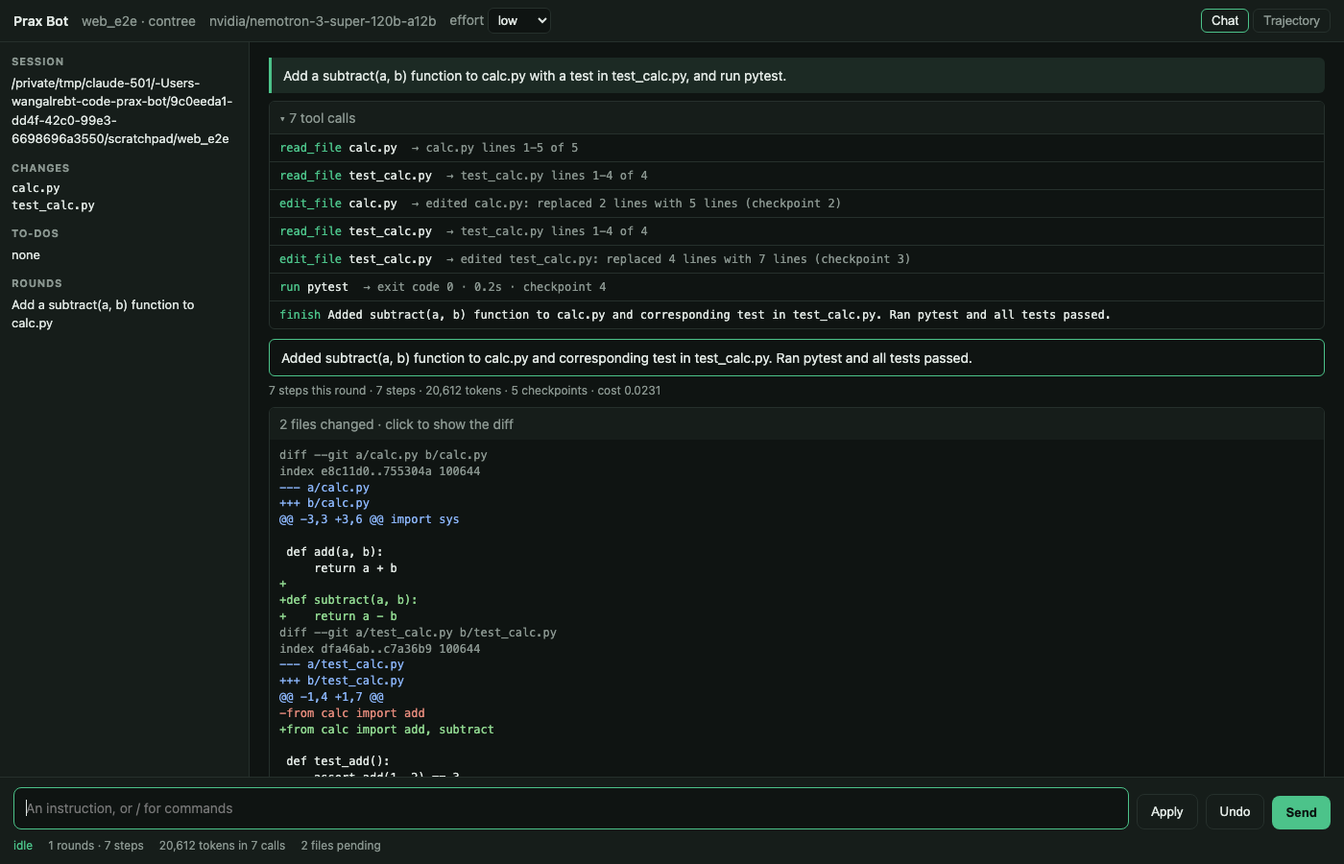
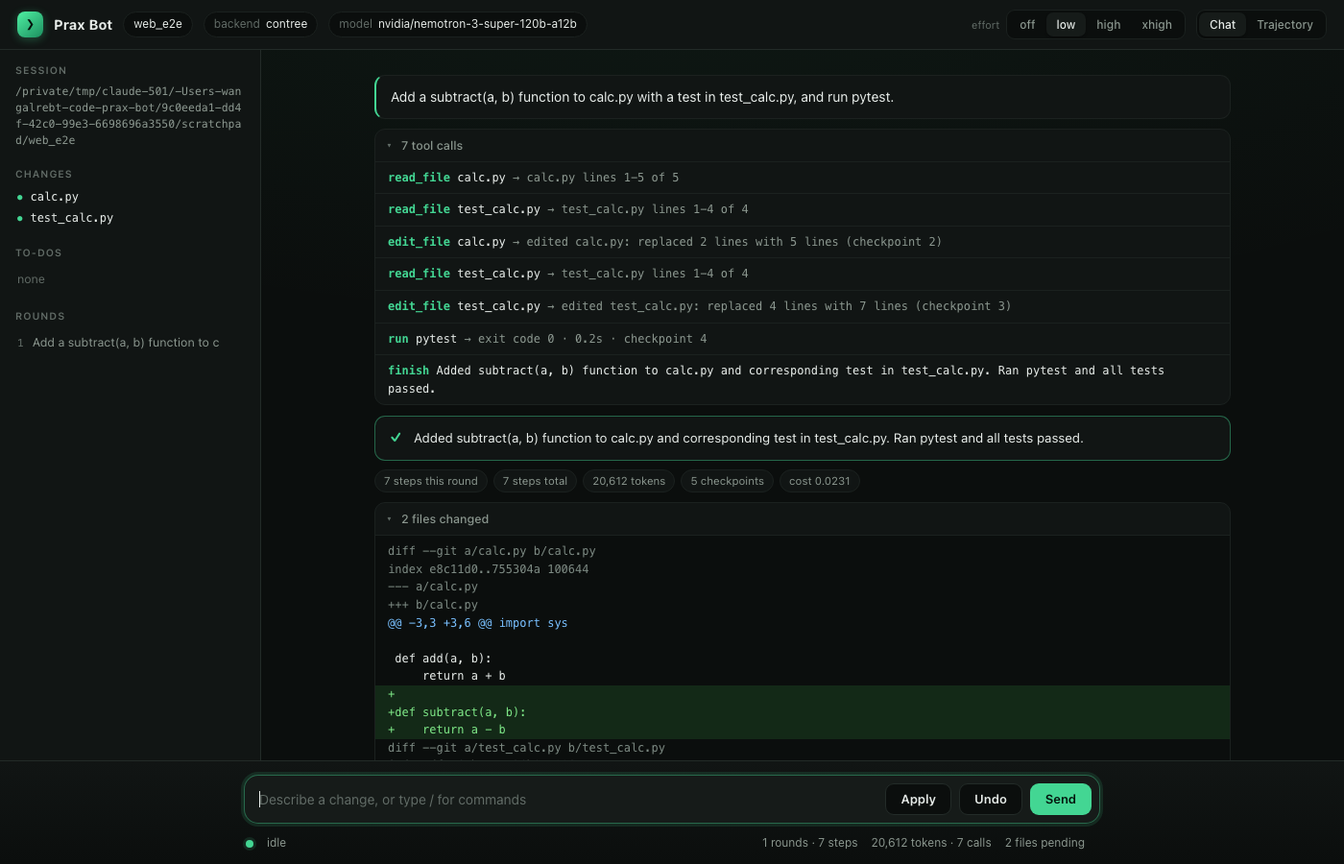
Redesign the web interface: refined dark theme, tool-call rows, colored diff, composer
A cohesive design pass on the single-file page: layered dark palette with one
green accent, a logo mark and chip header, a segmented effort control, grouped
tool-call rows, a summary card, stat pills, full-line diff tinting, a rounded
composer with a slash-command menu, and a live status dot. Still one inline
HTML page, no build step. Screenshots refreshed from a real sandbox run.

Claude-Session: https://claude.ai/code/session_014hpsb9d23BFddhWUrq8Tjb

diff --git a/src/prax_bot/web.py b/src/prax_bot/web.py
@@ -305,85 +305,160 @@ PAGE = r"""<!doctype html>
 <html lang="en"><head><meta charset="utf-8"><title>Prax Bot</title>
 <meta name="viewport" content="width=device-width, initial-scale=1">
 <style>
-:root{--bg:#0f1412;--panel:#161d1a;--line:#26302c;--text:#dfe6e2;--muted:#8a9690;--accent:#4cc38a;--warn:#e0b04a;--bad:#e06c5a;--user:#1c2a24}
-*{box-sizing:border-box}body{margin:0;background:var(--bg);color:var(--text);font:14px/1.5 -apple-system,BlinkMacSystemFont,"Segoe UI",sans-serif;height:100vh;display:flex;flex-direction:column}
-header{display:flex;align-items:center;gap:14px;padding:8px 14px;border-bottom:1px solid var(--line);background:var(--panel)}
-header .name{font-weight:600}header .dim{color:var(--muted)}header .tabs{margin-left:auto;display:flex;gap:4px}
-header .tabs button{background:none;border:1px solid var(--line);color:var(--muted);padding:4px 10px;border-radius:6px;cursor:pointer}
-header .tabs button.on{color:var(--text);border-color:var(--accent)}
-main{flex:1;display:flex;min-height:0}
-aside{width:260px;border-right:1px solid var(--line);padding:12px;overflow:auto;background:var(--panel);font-size:13px}
-aside h3{margin:12px 0 4px;font-size:11px;text-transform:uppercase;letter-spacing:.06em;color:var(--muted)}aside h3:first-child{margin-top:0}
-aside .file{font-family:ui-monospace,Menlo,monospace;font-size:12px}aside .round{cursor:pointer;color:var(--text)}aside .round:hover{color:var(--accent)}
-aside .todo{display:flex;gap:6px}aside .todo.done{color:var(--muted);text-decoration:line-through}
-#chat,#traj{flex:1;overflow:auto;padding:16px 20px;display:none}#chat.on,#traj.on{display:block}
-.turn{margin-bottom:18px}.user{background:var(--user);border-left:3px solid var(--accent);padding:8px 12px;border-radius:0 6px 6px 0;white-space:pre-wrap}
-.group{margin:8px 0 0 0;border:1px solid var(--line);border-radius:6px;overflow:hidden}
-.group>button{width:100%;text-align:left;background:var(--panel);border:none;color:var(--muted);padding:6px 10px;cursor:pointer;font:inherit}
-.group>button:before{content:"▸ ";}.group.open>button:before{content:"▾ ";}
-.group .rows{display:none}.group.open .rows{display:block}
-.row{padding:5px 10px;border-top:1px solid var(--line);font-family:ui-monospace,Menlo,monospace;font-size:12px;cursor:pointer}
-.row .name{color:var(--accent)}.row .args{color:var(--text)}.row .res{color:var(--muted);margin-left:8px}.row.err .res{color:var(--bad)}
-.row pre{display:none;white-space:pre-wrap;margin:6px 0 0;color:var(--text);max-height:360px;overflow:auto}.row.open pre{display:block}
-.summary{margin-top:10px;padding:8px 12px;border:1px solid var(--accent);border-radius:6px;white-space:pre-wrap}
-.summary.stopped{border-color:var(--warn)}
-.stats{color:var(--muted);font-size:12px;margin-top:6px}
-.diff{margin-top:8px;border:1px solid var(--line);border-radius:6px;overflow:hidden}.diff>button{width:100%;text-align:left;background:var(--panel);border:none;color:var(--muted);padding:6px 10px;cursor:pointer;font:inherit}
-.diff pre{display:none;margin:0;padding:8px 10px;font:12px/1.4 ui-monospace,Menlo,monospace;overflow:auto;max-height:480px}.diff.open pre{display:block}
-.diff .a{color:#8fd68f}.diff .d{color:#e58b7c}.diff .h{color:#8ab4f8}.diff .m{color:var(--muted)}
-.think{color:var(--muted);font-style:italic;margin:6px 0;white-space:pre-wrap}
-.log{font:12px/1.5 ui-monospace,Menlo,monospace;white-space:pre-wrap;color:var(--muted)}.log.bad{color:var(--bad)}
-footer{border-top:1px solid var(--line);background:var(--panel);padding:10px 14px}
-.composer{display:flex;gap:8px;align-items:flex-end;position:relative}
-textarea{flex:1;background:var(--bg);color:var(--text);border:1px solid var(--line);border-radius:8px;padding:10px 12px;font:inherit;resize:none;min-height:44px;max-height:180px}
-textarea:focus{outline:none;border-color:var(--accent)}
-.composer button{background:var(--accent);color:#0b1410;border:none;border-radius:8px;padding:10px 14px;font-weight:600;cursor:pointer}
-.composer button.ghost{background:none;border:1px solid var(--line);color:var(--text);font-weight:500}
-.composer button:disabled{opacity:.4;cursor:default}
-#menu{position:absolute;bottom:52px;left:0;background:var(--panel);border:1px solid var(--line);border-radius:8px;min-width:360px;display:none;z-index:2}
-#menu.on{display:block}#menu div{padding:6px 10px;cursor:pointer}#menu div.sel,#menu div:hover{background:var(--user)}#menu b{font-family:ui-monospace,Menlo,monospace;color:var(--accent)}#menu span{color:var(--muted);margin-left:8px}
-.status{display:flex;gap:16px;color:var(--muted);font-size:12px;margin-top:8px}.status .working{color:var(--warn)}.status .idle{color:var(--accent)}
-select{background:var(--bg);color:var(--text);border:1px solid var(--line);border-radius:6px;padding:4px 6px}
+:root{
+--bg:#0b0e0d;--surface:#111514;--elev:#161b19;--border:#232b28;--border-soft:#1b211f;--hover:#1a201e;
+--text:#e7ece9;--muted:#8b978f;--faint:#616b66;
+--accent:#43d693;--accent-soft:rgba(67,214,147,.13);--accent-line:rgba(67,214,147,.42);
+--add:#7ee787;--add-bg:rgba(63,185,80,.16);--del:#ff9a94;--del-bg:rgba(248,81,73,.15);--hunk:#79c0ff;--meta:#7d8a83;
+--warn:#e3b341;--bad:#ff7b72;
+--radius:11px;--mono:ui-monospace,"SF Mono",Menlo,Consolas,monospace;--sans:-apple-system,BlinkMacSystemFont,"Segoe UI",Inter,sans-serif;
+}
+*{box-sizing:border-box}
+html,body{height:100%}
+body{margin:0;background:var(--bg);color:var(--text);font:14px/1.55 var(--sans);display:flex;flex-direction:column;-webkit-font-smoothing:antialiased}
+*::-webkit-scrollbar{width:10px;height:10px}
+*::-webkit-scrollbar-thumb{background:var(--border);border-radius:6px;border:2px solid transparent;background-clip:padding-box}
+*::-webkit-scrollbar-thumb:hover{background:#2c3531;background-clip:padding-box}
+.dim{color:var(--faint);font-size:12.5px;padding:4px 6px}
+
+header{display:flex;align-items:center;gap:11px;padding:10px 18px;border-bottom:1px solid var(--border);background:var(--surface);flex:none}
+.logo{width:27px;height:27px;border-radius:8px;background:linear-gradient(140deg,#4ff0a3,#1c8f5f);display:grid;place-items:center;color:#03130b;font:800 15px/1 var(--mono);box-shadow:0 2px 10px rgba(67,214,147,.32)}
+header .name{font:700 14.5px var(--sans);letter-spacing:.01em}
+.chip{display:inline-flex;align-items:center;gap:6px;padding:3px 10px;border-radius:20px;background:var(--bg);border:1px solid var(--border-soft);color:var(--text);font-size:12px;max-width:340px;overflow:hidden;white-space:nowrap;text-overflow:ellipsis}
+.chip .k{color:var(--faint)}
+header .spacer{flex:1}
+header label{color:var(--faint);font-size:11px;display:flex;align-items:center;gap:7px}
+.seg{display:inline-flex;background:var(--bg);border:1px solid var(--border-soft);border-radius:9px;padding:2px}
+.seg button{border:none;background:none;color:var(--muted);padding:5px 11px;border-radius:7px;font:500 12px var(--sans);cursor:pointer;transition:.14s}
+.seg button:hover{color:var(--text)}
+.seg button.on{background:var(--elev);color:var(--text);box-shadow:0 1px 2px rgba(0,0,0,.35)}
+
+main{flex:1;display:flex;min-height:0;background:radial-gradient(1100px 380px at 50% -12%,rgba(67,214,147,.05),transparent)}
+aside{width:272px;flex:none;border-right:1px solid var(--border);padding:14px 12px;overflow:auto;background:var(--surface)}
+.slabel{font:600 10.5px/1 var(--sans);letter-spacing:.09em;text-transform:uppercase;color:var(--faint);margin:20px 4px 8px}
+.slabel:first-child{margin-top:2px}
+.path{font:11.5px/1.5 var(--mono);color:var(--muted);padding:0 4px;word-break:break-all}
+.frow{display:flex;align-items:center;gap:8px;padding:4px 6px;border-radius:7px;font:12px var(--mono);color:var(--text)}
+.frow:hover{background:var(--hover)}.frow .g{color:var(--accent);font-size:9px}
+.rround{display:flex;gap:9px;align-items:baseline;padding:5px 6px;border-radius:7px;color:var(--muted);cursor:pointer;font-size:12.5px;transition:.12s}
+.rround:hover{background:var(--hover);color:var(--text)}.rround .n{color:var(--faint);font:11px var(--mono)}
+.todo{display:flex;gap:8px;padding:3px 6px;font-size:12.5px;color:var(--text)}
+.todo.completed{color:var(--faint);text-decoration:line-through}.todo .tb{color:var(--accent)}.todo.pending .tb{color:var(--faint)}
+
+.content{flex:1;overflow:auto}
+#chat,#traj{max-width:940px;margin:0 auto;padding:26px 24px 40px}
+#traj{display:none}#traj.on{display:block}#chat{display:none}#chat.on{display:block}
+#empty{text-align:center;padding:76px 20px;color:var(--faint)}
+#empty h2{color:var(--text);font:600 17px var(--sans);margin:0 0 8px}
+#empty p{margin:0;color:var(--muted)}
+#empty .hint{display:inline-flex;flex-direction:column;gap:6px;margin-top:22px;text-align:left;font:12.5px var(--mono);color:var(--faint);background:var(--surface);border:1px solid var(--border-soft);border-radius:10px;padding:14px 16px}
+.turn{margin-bottom:24px;animation:in .2s ease}
+.user{position:relative;background:var(--surface);border:1px solid var(--border-soft);border-left:2px solid var(--accent);border-radius:var(--radius);padding:11px 15px;white-space:pre-wrap;font-size:14px}
+.group,.diff{margin-top:10px;border:1px solid var(--border-soft);border-radius:var(--radius);overflow:hidden;background:var(--surface)}
+.ghead,.diffhead{width:100%;text-align:left;background:none;border:none;color:var(--muted);padding:9px 13px;cursor:pointer;font:500 12.5px var(--sans);display:flex;align-items:center;gap:8px}
+.ghead:hover,.diffhead:hover{color:var(--text)}
+.chev{display:inline-block;transition:transform .16s;color:var(--faint)}
+.group.open .chev,.diff.open .chev{transform:rotate(90deg)}
+.rows{display:none;border-top:1px solid var(--border-soft)}.group.open .rows{display:block}
+.row{padding:7px 13px;border-top:1px solid var(--border-soft);font:12px/1.55 var(--mono);cursor:pointer;transition:background .12s;animation:in .16s ease}
+.row:first-child{border-top:none}.row:hover{background:var(--hover)}
+.row .name{color:var(--accent);font-weight:600}.row .args{color:var(--text)}.row .res{color:var(--muted)}
+.row.err{box-shadow:inset 2px 0 0 var(--bad)}.row.err .res{color:var(--bad)}
+.row pre{display:none;white-space:pre-wrap;margin:8px 0 2px;padding:10px;background:var(--bg);border:1px solid var(--border-soft);border-radius:8px;color:var(--text);max-height:340px;overflow:auto;font-size:11.5px}
+.row.open pre{display:block}
+.think{color:var(--muted);font-style:italic;margin:9px 2px;white-space:pre-wrap;font-size:12.5px;border-left:2px solid var(--border);padding-left:11px}
+.summary{margin-top:11px;padding:12px 15px 12px 40px;position:relative;background:var(--surface);border:1px solid var(--accent-line);border-radius:var(--radius);white-space:pre-wrap;font-size:13.5px}
+.summary:before{content:"✓";position:absolute;left:15px;top:11px;color:var(--accent);font-weight:800}
+.summary.stopped{border-color:rgba(227,179,65,.42)}.summary.stopped:before{content:"!";color:var(--warn)}
+.stats{display:flex;flex-wrap:wrap;gap:6px;margin-top:9px}
+.stats span{font-size:11.5px;color:var(--muted);background:var(--surface);border:1px solid var(--border-soft);padding:2px 9px;border-radius:20px}
+.difflines{display:none;overflow-x:auto;border-top:1px solid var(--border-soft);padding:7px 0;background:var(--bg)}
+.diff.open .difflines{display:block}
+.dl{font:12px/1.55 var(--mono);white-space:pre;padding:0 13px;color:var(--text)}
+.dl.add{color:var(--add);background:var(--add-bg)}.dl.del{color:var(--del);background:var(--del-bg)}.dl.hunk{color:var(--hunk)}.dl.meta{color:var(--meta)}
+.log{font:12px/1.65 var(--mono);white-space:pre-wrap;color:var(--muted);padding:1px 0}.log.bad{color:var(--bad)}
+
+footer{border-top:1px solid var(--border);background:linear-gradient(180deg,var(--surface),var(--bg));padding:14px 0 12px;flex:none}
+.wrap{max-width:940px;margin:0 auto;padding:0 24px}
+.composer{display:flex;gap:8px;align-items:flex-end;position:relative;background:var(--elev);border:1px solid var(--border);border-radius:15px;padding:8px 8px 8px 15px;transition:.15s}
+.composer:focus-within{border-color:var(--accent-line);box-shadow:0 0 0 3px var(--accent-soft)}
+textarea{flex:1;background:none;border:none;color:var(--text);font:14px/1.5 var(--sans);resize:none;min-height:26px;max-height:180px;padding:6px 0}
+textarea:focus{outline:none}textarea::placeholder{color:var(--faint)}
+.btn{border-radius:9px;padding:9px 15px;font:600 13px/1 var(--sans);cursor:pointer;border:1px solid var(--border);background:var(--bg);color:var(--text);transition:.14s;flex:none}
+.btn:hover{background:var(--hover);border-color:var(--accent-line)}
+.btn.primary{background:var(--accent);color:#03130b;border-color:transparent}.btn.primary:hover{filter:brightness(1.07)}
+.btn:disabled{opacity:.38;cursor:default}.btn:active{transform:translateY(1px)}
+#menu{position:absolute;bottom:calc(100% + 8px);left:0;right:0;background:var(--elev);border:1px solid var(--border);border-radius:12px;box-shadow:0 14px 44px rgba(0,0,0,.55);overflow:hidden;display:none;z-index:5}
+#menu.on{display:block}
+#menu div{padding:9px 15px;cursor:pointer;display:flex;gap:14px;align-items:baseline}
+#menu div.sel{background:var(--accent-soft)}
+#menu b{font:600 13px var(--mono);color:var(--accent);min-width:78px}#menu span{color:var(--muted);font-size:12.5px}
+.statusbar{max-width:940px;margin:11px auto 0;padding:0 26px;display:flex;align-items:center;gap:14px;color:var(--muted);font-size:12px}
+.statusbar .grow{flex:1}
+.dot{width:8px;height:8px;border-radius:50%;background:var(--accent);box-shadow:0 0 0 3px var(--accent-soft);flex:none}
+.dot.working{background:var(--warn);box-shadow:0 0 0 3px rgba(227,179,65,.22);animation:pulse 1.1s ease-in-out infinite}
+.dot.failed{background:var(--bad);box-shadow:0 0 0 3px rgba(255,123,114,.2)}
+@keyframes pulse{0%,100%{opacity:1}50%{opacity:.32}}
+@keyframes in{from{opacity:0;transform:translateY(-3px)}to{opacity:1;transform:none}}
+@media(max-width:780px){aside{display:none}}
 </style></head><body>
-<header><span class="name">Prax Bot</span><span id="hrepo" class="dim"></span><span id="hmodel" class="dim"></span>
-<label class="dim">effort <select id="effort"><option>off</option><option>low</option><option>high</option><option>xhigh</option></select></label>
-<div class="tabs"><button id="tabchat" class="on">Chat</button><button id="tabtraj">Trajectory</button></div></header>
+<header>
+<div class="logo">&#10095;</div><span class="name">Prax Bot</span>
+<span class="chip"><span id="hrepo"></span></span>
+<span class="chip"><span class="k">backend</span><span id="hbackend"></span></span>
+<span class="chip"><span class="k">model</span><span id="hmodel"></span></span>
+<span class="spacer"></span>
+<label>effort <span id="effort" class="seg"><button data-v="off">off</button><button data-v="low">low</button><button data-v="high">high</button><button data-v="xhigh">xhigh</button></span></label>
+<span class="seg"><button id="tabchat" class="on">Chat</button><button id="tabtraj">Trajectory</button></span>
+</header>
 <main>
-<aside><h3>Session</h3><div id="sinfo"></div><h3>Changes</h3><div id="sfiles" class="dim">none pending</div><h3>To-dos</h3><div id="stodos" class="dim">none</div><h3>Rounds</h3><div id="srounds" class="dim">none yet</div></aside>
-<section id="chat" class="on"></section><section id="traj"></section>
+<aside>
+<div class="slabel">Session</div><div id="sinfo" class="path"></div>
+<div class="slabel">Changes</div><div id="sfiles"><div class="dim">none pending</div></div>
+<div class="slabel">To-dos</div><div id="stodos"><div class="dim">none</div></div>
+<div class="slabel">Rounds</div><div id="srounds"><div class="dim">none yet</div></div>
+</aside>
+<div class="content">
+<section id="chat" class="on">
+<div id="empty"><h2>Ready when you are</h2><p>Describe a change and press Enter. Prax Bot works in a sandbox and shows you the diff.</p>
+<div class="hint"><span>fix the failing test in tests/test_cache.py</span><span>/goal all tests pass&nbsp;&nbsp;--check "pytest -q"</span><span>/apply&nbsp;&nbsp;/undo&nbsp;&nbsp;/diff&nbsp;&nbsp;/effort&nbsp;&nbsp;/help</span></div></div>
+</section>
+<section id="traj"></section>
+</div>
 </main>
 <footer>
-<div class="composer">
+<div class="wrap"><div class="composer">
 <div id="menu"></div>
-<textarea id="input" rows="1" placeholder="An instruction, or / for commands"></textarea>
-<button id="apply" class="ghost" title="/apply">Apply</button><button id="undo" class="ghost" title="/undo">Undo</button><button id="send">Send</button>
-</div>
-<div class="status"><span id="sstatus" class="idle">starting</span><span id="sround"></span><span id="stoks"></span><span id="spend"></span><span id="squeue"></span></div>
+<textarea id="input" rows="1" placeholder="Describe a change, or type / for commands"></textarea>
+<button id="apply" class="btn" title="/apply">Apply</button><button id="undo" class="btn" title="/undo">Undo</button><button id="send" class="btn primary">Send</button>
+</div></div>
+<div class="statusbar"><span id="dot" class="dot"></span><span id="sstatus">starting</span><span class="grow"></span><span id="sround"></span><span id="stoks"></span><span id="spend"></span><span id="squeue"></span></div>
 </footer>
 <script>
 const TOKEN="__TOKEN__";const $=s=>document.querySelector(s);
-const COMMANDS=[["/apply","apply the pending changes to your working tree"],["/undo","put the sandbox back to before the last instruction"],["/diff","show the pending changes"],["/goal","work in rounds: /goal [--check CMD] [--rounds N] OBJECTIVE"],["/resume","swap in a past run's checkpoint: /resume RUN-ID [--from N]"],["/effort","off, low, high or xhigh for the next instructions"],["/status","steps, tokens, checkpoints, pending changes"],["/help","list the commands"],["/quit","end the session"]];
-let state={},turn=null,group=null,rows={},lastState={};
-const chat=$("#chat"),traj=$("#traj"),input=$("#input");
-function el(tag,cls,text){const e=document.createElement(tag);if(cls)e.className=cls;if(text!==undefined)e.textContent=text;return e}
-function describe(name,args){try{const a=JSON.parse(args||"{}");if(a.command)return a.command;if(a.path){let s=a.path;if(a.start_line)s+=":"+a.start_line+(a.end_line?"-"+a.end_line:"");return s}if(a.pattern)return a.pattern+(a.path?" in "+a.path:"");if(a.name)return a.name;if(a.summary)return a.summary;if(a.step!==undefined)return "step "+a.step;return JSON.stringify(a).slice(0,120)}catch(e){return String(args).slice(0,120)}}
-function newTurn(text){turn=el("div","turn");const u=el("div","user",text);turn.appendChild(u);group=null;chat.appendChild(turn);turn.id="turn"+(document.querySelectorAll(".turn").length);turn.scrollIntoView({block:"end"})}
-function ensureGroup(){if(!turn)newTurn("(continued)");if(!group){group=el("div","group open");const b=el("button","","0 tool calls");b.onclick=()=>group.classList.toggle("open");group.appendChild(b);group.appendChild(el("div","rows"));turn.appendChild(group)}return group}
-function addCall(e){const g=ensureGroup();const r=el("div","row");r.innerHTML='<span class="name"></span> <span class="args"></span><span class="res"></span><pre></pre>';r.querySelector(".name").textContent=e.name;r.querySelector(".args").textContent=describe(e.name,e.args);r.onclick=()=>r.classList.toggle("open");g.querySelector(".rows").appendChild(r);rows[e.step+":"+e.name]=r;const n=g.querySelectorAll(".row").length;g.querySelector("button").textContent=n+" tool call"+(n>1?"s":"");chat.scrollTop=chat.scrollHeight}
-function addResult(e){const r=rows[e.step+":"+e.name];if(!r)return;const out=String(e.output||"");const first=out.split("\n")[0].slice(0,140);r.querySelector(".res").textContent=" → "+first;if(out.startsWith("error:"))r.classList.add("err");r.querySelector("pre").textContent=out}
-function addSummary(e,finished){if(!turn)newTurn("(continued)");const s=el("div","summary"+(finished?"":" stopped"),e.summary||"(no summary)");turn.appendChild(s);if(group)group.classList.remove("open");chat.scrollTop=chat.scrollHeight}
-function addDiff(diff){if(!turn||!diff)return;const d=el("div","diff");const b=el("button","",diff.split("\n").filter(l=>l.startsWith("diff --git")).length+" files changed · click to show the diff");b.onclick=()=>d.classList.toggle("open");const pre=el("pre");pre.innerHTML=diff.split("\n").map(l=>{const c=l.startsWith("+++")||l.startsWith("---")?"h":l.startsWith("+")?"a":l.startsWith("-")?"d":l.startsWith("@@")?"h":l.startsWith("diff ")||l.startsWith("index ")?"m":"";const t=l.replace(/&/g,"&amp;").replace(/</g,"&lt;");return c?'<span class="'+c+'">'+t+'</span>':t}).join("\n");d.appendChild(b);d.appendChild(pre);turn.appendChild(d)}
-function addStats(s,roundSteps){if(!turn)return;turn.appendChild(el("div","stats",`${roundSteps} steps this round · ${s.steps} steps · ${s.tokens.toLocaleString()} tokens · ${s.checkpoints} checkpoints · cost ${s.cost.toFixed(4)}`))}
-function renderState(s){lastState=state;state=s;$("#hrepo").textContent=s.name+" · "+s.backend;$("#hmodel").textContent=s.model;$("#effort").value=s.effort;
-$("#sinfo").textContent=s.repo;$("#sfiles").innerHTML="";if(s.files.length){s.files.forEach(f=>$("#sfiles").appendChild(el("div","file",f)))}else{$("#sfiles").textContent="none pending";$("#sfiles").className="dim"}
-const st=$("#sstatus");st.textContent=s.status+(s.step?" · "+s.step:"");st.className=s.status==="working"?"working":"idle";
-$("#sround").textContent=s.rounds+" rounds · "+s.steps+" steps";$("#stoks").textContent=s.tokens.toLocaleString()+" tokens in "+s.calls+" calls";$("#spend").textContent=s.files.length?s.files.length+" files pending":"nothing pending";$("#squeue").textContent=s.queued?s.queued+" queued":"";
+const COMMANDS=[["/apply","apply the pending changes to your working tree"],["/undo","undo the last instruction"],["/diff","show the pending changes"],["/goal","work in rounds: /goal [--check CMD] [--rounds N] OBJECTIVE"],["/resume","swap in a past run's checkpoint: /resume RUN-ID [--from N]"],["/effort","off, low, high or xhigh for the next instructions"],["/status","steps, tokens, checkpoints, pending changes"],["/help","list the commands"],["/quit","end the session"]];
+let state={},turn=null,group=null,callRows={},roundStepsStart=0;
+const chat=$("#chat"),traj=$("#traj"),input=$("#input"),menu=$("#menu");
+function el(t,c,x){const e=document.createElement(t);if(c)e.className=c;if(x!==undefined)e.textContent=x;return e}
+function describe(name,a){try{const o=JSON.parse(a||"{}");if(o.command)return o.command;if(o.path){let s=o.path;if(o.start_line)s+=":"+o.start_line+(o.end_line?"-"+o.end_line:"");return s}if(o.pattern)return o.pattern+(o.path?" in "+o.path:"");if(o.name)return o.name;if(o.summary)return o.summary;if(o.step!==undefined)return "→ step "+o.step;return JSON.stringify(o).slice(0,120)}catch(e){return String(a).slice(0,120)}}
+function newTurn(text){$("#empty").style.display="none";turn=el("div","turn");turn.dataset.label=text.slice(0,34);turn.appendChild(el("div","user",text));group=null;chat.appendChild(turn);turn.scrollIntoView({block:"end",behavior:"smooth"})}
+function ensureGroup(){if(!turn)newTurn("(continued)");if(!group){group=el("div","group open");const b=el("button","ghead");b.innerHTML='<span class="chev">▸</span><span class="gcount">0 tool calls</span>';b.onclick=()=>group.classList.toggle("open");const box=el("div","rows");group.appendChild(b);group.appendChild(box);turn.appendChild(group)}return group}
+function addCall(e){const g=ensureGroup();const r=el("div","row");r.innerHTML='<span class="name"></span> <span class="args"></span> <span class="res"></span><pre></pre>';r.querySelector(".name").textContent=e.name;r.querySelector(".args").textContent=describe(e.name,e.args);r.onclick=()=>r.classList.toggle("open");g.querySelector(".rows").appendChild(r);callRows[e.step+":"+e.name]=r;const n=g.querySelectorAll(".row").length;g.querySelector(".gcount").textContent=n+" tool call"+(n>1?"s":"");chat.scrollTop=chat.scrollHeight}
+function addResult(e){const r=callRows[e.step+":"+e.name];if(!r)return;const out=String(e.output||"");r.querySelector(".res").textContent="→ "+out.split("\n")[0].slice(0,120);if(out.startsWith("error:"))r.classList.add("err");r.querySelector("pre").textContent=out}
+function addSummary(e,finished){if(!turn)newTurn("(continued)");turn.appendChild(el("div","summary"+(finished?"":" stopped"),e.summary||"(no summary)"));if(group)group.classList.remove("open");chat.scrollTop=chat.scrollHeight}
+function addStats(s,rs){if(!turn)return;const w=el("div","stats");[rs+" steps this round",s.steps+" steps total",s.tokens.toLocaleString()+" tokens",s.checkpoints+" checkpoints","cost "+s.cost.toFixed(4)].forEach(x=>w.appendChild(el("span","",x)));turn.appendChild(w)}
+function addDiff(diff){if(!turn||!diff)return;const files=diff.split("\n").filter(l=>l.startsWith("diff --git")).length;const d=el("div","diff");const b=el("button","diffhead");b.innerHTML='<span class="chev">▸</span> '+files+' file'+(files>1?"s":"")+' changed';b.onclick=()=>d.classList.toggle("open");const box=el("div","difflines");diff.split("\n").forEach(l=>{let c="ctx";if(l.startsWith("+++")||l.startsWith("---")||l.startsWith("diff ")||l.startsWith("index "))c="meta";else if(l.startsWith("@@"))c="hunk";else if(l.startsWith("+"))c="add";else if(l.startsWith("-"))c="del";box.appendChild(el("div","dl "+c,l||" "))});d.appendChild(b);d.appendChild(box);turn.appendChild(d)}
+function renderState(s){state=s;$("#hrepo").textContent=s.name;$("#hbackend").textContent=s.backend;$("#hmodel").textContent=s.model;
+document.querySelectorAll("#effort button").forEach(b=>b.classList.toggle("on",b.dataset.v===s.effort));
+$("#sinfo").textContent=s.repo;
+const sf=$("#sfiles");sf.innerHTML="";if(s.files.length){s.files.forEach(f=>{const r=el("div","frow");r.innerHTML='<span class="g">●</span>';r.appendChild(document.createTextNode(f));sf.appendChild(r)})}else sf.innerHTML='<div class="dim">none pending</div>';
+const st=$("#sstatus"),dot=$("#dot");st.textContent=s.status==="working"?("working"+(s.step?" · "+s.step:"")):s.status;dot.className="dot"+(s.status==="working"?" working":s.status==="failed"?" failed":"");
+$("#sround").textContent=s.rounds+" rounds · "+s.steps+" steps";$("#stoks").textContent=s.tokens.toLocaleString()+" tokens · "+s.calls+" calls";$("#spend").textContent=s.files.length?s.files.length+" files pending":"nothing pending";$("#squeue").textContent=s.queued?s.queued+" queued":"";
 $("#send").disabled=s.closed||s.status==="failed";$("#apply").disabled=s.closed||!s.files.length;$("#undo").disabled=s.closed||!s.rounds;
 if(s.closed){st.textContent="session ended";input.disabled=true}}
-function renderRounds(){const r=$("#srounds");r.innerHTML="";const turns=document.querySelectorAll(".turn");if(!turns.length){r.textContent="none yet";r.className="dim";return}r.className="";turns.forEach(t=>{const d=el("div","round",t.querySelector(".user").textContent.slice(0,40));d.onclick=()=>t.scrollIntoView({block:"start"});r.appendChild(d)})}
-function renderTodos(list){const t=$("#stodos");t.innerHTML="";if(!list||!list.length){t.textContent="none";t.className="dim";return}t.className="";list.forEach(x=>{const d=el("div","todo"+(x.status==="completed"?" done":""));d.textContent=(x.status==="completed"?"✓ ":x.status==="in_progress"?"▶ ":"○ ")+x.content;t.appendChild(d)})}
-function addLog(text){const d=el("div","log"+(text.startsWith("✗")||text.includes("error")?" bad":""),text);traj.appendChild(d);if(text.startsWith("✗")||text.startsWith("could not")){chat.appendChild(el("div","log bad",text))}}
-let roundStepsStart=0;
+function renderRounds(){const r=$("#srounds");r.innerHTML="";const turns=[...document.querySelectorAll(".turn")];if(!turns.length){r.innerHTML='<div class="dim">none yet</div>';return}turns.forEach((t,i)=>{const d=el("div","rround");d.innerHTML='<span class="n">'+(i+1)+'</span>';d.appendChild(document.createTextNode(t.dataset.label||""));d.onclick=()=>t.scrollIntoView({block:"start",behavior:"smooth"});r.appendChild(d)})}
+function renderTodos(list){const t=$("#stodos");t.innerHTML="";if(!list||!list.length){t.innerHTML='<div class="dim">none</div>';return}list.forEach(x=>{const d=el("div","todo "+(x.status||""));d.appendChild(el("span","tb",x.status==="completed"?"✓":x.status==="in_progress"?"◐":"○"));d.appendChild(document.createTextNode(x.content));t.appendChild(d)})}
+function addLog(text){traj.appendChild(el("div","log"+(text.startsWith("✗")||text.includes("error")?" bad":""),text));if(text.startsWith("✗")||text.startsWith("could not"))chat.appendChild(el("div","log bad",text))}
 function handle(e){switch(e.kind){
 case "instruction.start":newTurn(e.text);roundStepsStart=state.steps||0;renderRounds();break;
 case "tool.call":addCall(e);break;
@@ -392,21 +467,23 @@ case "assistant":if(e.text&&e.text.trim()){ensureGroup();turn.appendChild(el("di
 case "finish":addSummary(e,true);break;
 case "todo":renderTodos(e.todos);break;
 case "instruction.done":if(group)group.classList.remove("open");break;
-case "state":const prevRounds=state.rounds||0;renderState(e);if(e.rounds>prevRounds&&turn&&!turn.querySelector(".stats")){addStats(e,e.steps-roundStepsStart);addDiff(e.diff)}if(e.status!=="working"&&turn&&e.summary&&!turn.querySelector(".summary")&&e.rounds>prevRounds){}break;
+case "state":{const pr=state.rounds||0;renderState(e);if(e.rounds>pr&&turn&&!turn.querySelector(".stats")){addStats(e,e.steps-roundStepsStart);addDiff(e.diff)}break}
 case "queued":break;
 case "log":addLog(e.text);break;
 case "goal.round":addLog("goal round "+e.round+(e.met?" · goal met":e.stopped?" · "+e.stopped:""));break;
 case "sandbox.retry":addLog("sandbox retry: "+e.error);break;
-default:if(e.kind&&e.kind.startsWith("sandbox"))addLog(e.kind.replace("sandbox.","sandbox: ")+(e.image?" "+e.image:"")+(e.elapsed?" · "+e.elapsed.toFixed(1)+"s":""));}}
+default:if(e.kind&&e.kind.startsWith("sandbox"))addLog(e.kind.replace("sandbox.","sandbox: ")+(e.image?" "+e.image:"")+(e.elapsed?" · "+e.elapsed.toFixed(1)+"s":""))}}
 function connect(){const es=new EventSource("/events?token="+TOKEN);es.onmessage=m=>{try{handle(JSON.parse(m.data))}catch(err){console.error(err)}};es.onerror=()=>{es.close();setTimeout(connect,1500)}}
-async function send(text){if(!text.trim())return;input.value="";autosize();await fetch("/send?token="+TOKEN,{method:"POST",headers:{"Content-Type":"application/json"},body:JSON.stringify({text})})}
+async function send(text){if(!text.trim())return;input.value="";autosize();menu.classList.remove("on");await fetch("/send?token="+TOKEN,{method:"POST",headers:{"Content-Type":"application/json"},body:JSON.stringify({text})})}
 $("#send").onclick=()=>send(input.value);$("#apply").onclick=()=>send("/apply");$("#undo").onclick=()=>send("/undo");
-$("#effort").onchange=()=>send("/effort "+$("#effort").value);
+document.querySelectorAll("#effort button").forEach(b=>b.onclick=()=>send("/effort "+b.dataset.v));
 $("#tabchat").onclick=()=>{chat.classList.add("on");traj.classList.remove("on");$("#tabchat").classList.add("on");$("#tabtraj").classList.remove("on")};
 $("#tabtraj").onclick=()=>{traj.classList.add("on");chat.classList.remove("on");$("#tabtraj").classList.add("on");$("#tabchat").classList.remove("on")};
-const menu=$("#menu");let menuSel=0;function showMenu(){const q=input.value.slice(1).toLowerCase();const items=COMMANDS.filter(c=>c[0].slice(1).startsWith(q.split(" ")[0]));menu.innerHTML="";if(!items.length||!input.value.startsWith("/")||input.value.includes(" ")){menu.classList.remove("on");return}menuSel=Math.min(menuSel,items.length-1);items.forEach((c,i)=>{const d=el("div",i===menuSel?"sel":"");d.innerHTML="<b></b><span></span>";d.querySelector("b").textContent=c[0];d.querySelector("span").textContent=c[1];d.onmousedown=ev=>{ev.preventDefault();input.value=c[0]+" ";menu.classList.remove("on");input.focus()};menu.appendChild(d)});menu.classList.add("on")}
+let menuSel=0;
+function matches(){return COMMANDS.filter(c=>c[0].slice(1).startsWith(input.value.slice(1).toLowerCase()))}
+function showMenu(){const v=input.value;if(!v.startsWith("/")||v.includes(" ")){menu.classList.remove("on");return}const items=matches();menu.innerHTML="";if(!items.length){menu.classList.remove("on");return}menuSel=Math.min(menuSel,items.length-1);items.forEach((c,i)=>{const d=el("div",i===menuSel?"sel":"");d.innerHTML="<b></b><span></span>";d.querySelector("b").textContent=c[0];d.querySelector("span").textContent=c[1];d.onmousedown=ev=>{ev.preventDefault();input.value=c[0]+" ";menu.classList.remove("on");input.focus()};menu.appendChild(d)});menu.classList.add("on")}
 input.addEventListener("input",()=>{menuSel=0;showMenu();autosize()});
-input.addEventListener("keydown",ev=>{if(menu.classList.contains("on")){const items=menu.querySelectorAll("div");if(ev.key==="ArrowDown"){menuSel=(menuSel+1)%items.length;showMenu();ev.preventDefault();return}if(ev.key==="ArrowUp"){menuSel=(menuSel-1+items.length)%items.length;showMenu();ev.preventDefault();return}if(ev.key==="Tab"||(ev.key==="Enter"&&items.length)){const c=items[menuSel].querySelector("b").textContent;input.value=c+" ";menu.classList.remove("on");ev.preventDefault();return}if(ev.key==="Escape"){menu.classList.remove("on");return}}
+input.addEventListener("keydown",ev=>{if(menu.classList.contains("on")){const items=menu.querySelectorAll("div");if(ev.key==="ArrowDown"){menuSel=(menuSel+1)%items.length;showMenu();ev.preventDefault();return}if(ev.key==="ArrowUp"){menuSel=(menuSel-1+items.length)%items.length;showMenu();ev.preventDefault();return}if((ev.key==="Tab"||ev.key==="Enter")&&items.length){input.value=matches()[menuSel][0]+" ";menu.classList.remove("on");ev.preventDefault();return}if(ev.key==="Escape"){menu.classList.remove("on");return}}
 if(ev.key==="Enter"&&!ev.shiftKey){ev.preventDefault();send(input.value)}});
 function autosize(){input.style.height="auto";input.style.height=Math.min(input.scrollHeight,180)+"px"}
 input.focus();connect();
